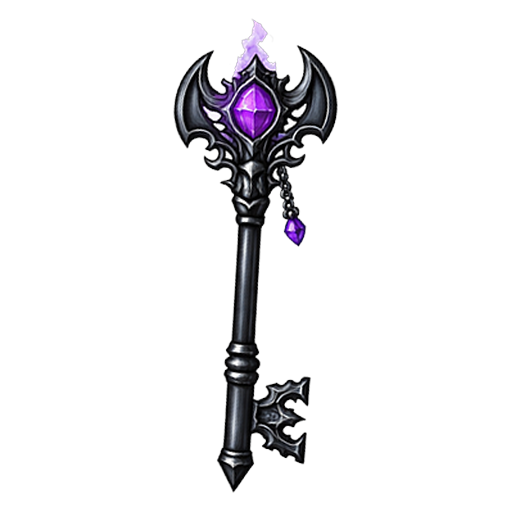
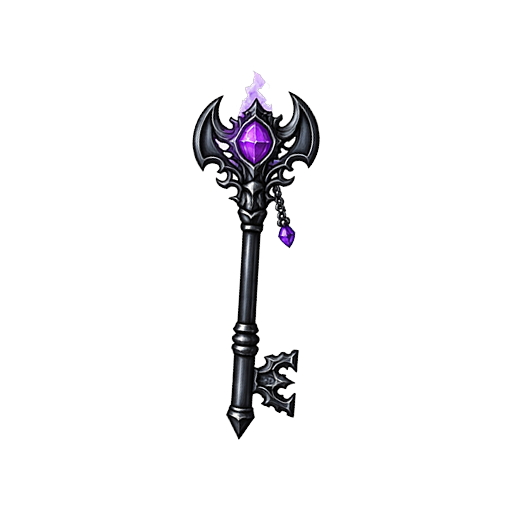
keys

Changed region(s): [[0.3125, 0.0312, 0.6875, 0.9688]]

diff --git a/src/data/wallDecalPresets.ts b/src/data/wallDecalPresets.ts
@@ -16,6 +16,8 @@ export type WallDecalPreset = {
     plateColor: string;
     faceInset?: number;
     contentDepth?: number;
+    /** Overrides the shared backing-plate thickness (WallDecal's PLATE_DEPTH) for this decal. */
+    plateDepth?: number;
     scatterXOptions?: number[];
     scatterYOptions?: number[];
 };
@@ -82,17 +84,19 @@ const DECAL_PRESETS: Record<string, WallDecalPreset> = {
         width: GRID_SIZE * 0.28,
         height: WALL_HEIGHT * 0.46,
         y: 0,
-        hasBacking: false,
+        hasBacking: true,
         hasGlow: false,
         plateColor: '#3a2b1d',
+        plateDepth: GRID_SIZE * 0.03,
     },
     [LEVER_DOWN_IMAGE]: {
         width: GRID_SIZE * 0.28,
         height: WALL_HEIGHT * 0.46,
         y: 0,
-        hasBacking: false,
+        hasBacking: true,
         hasGlow: false,
         plateColor: '#3a2b1d',
+        plateDepth: GRID_SIZE * 0.03,
     },
     [ALTAR_IMAGE]: {
         width: GRID_SIZE * 0.56,
@@ -106,9 +110,10 @@ const DECAL_PRESETS: Record<string, WallDecalPreset> = {
         width: GRID_SIZE * 0.18,
         height: WALL_HEIGHT * 0.5,
         y: 0,
-        hasBacking: false,
+        hasBacking: true,
         hasGlow: true,
         plateColor: '#3a2b1d',
+        plateDepth: GRID_SIZE * 0.045,
     },
     [FOUNTAIN_IMAGE]: {
         width: GRID_SIZE * 0.72,
@@ -122,41 +127,46 @@ const DECAL_PRESETS: Record<string, WallDecalPreset> = {
         width: GRID_SIZE * 0.15,
         height: WALL_HEIGHT * 0.15,
         y: 0,
-        hasBacking: false,
+        hasBacking: true,
         hasGlow: false,
         plateColor: '#3a2b1d',
+        plateDepth: GRID_SIZE * 0.03,
     },
     [WOOD_RING_IMAGE]: {
         width: GRID_SIZE * 0.15,
         height: WALL_HEIGHT * 0.15,
         y: 0,
-        hasBacking: false,
+        hasBacking: true,
         hasGlow: false,
         plateColor: '#3a2b1d',
+        plateDepth: GRID_SIZE * 0.03,
     },
     [IRON_RING_IMAGE]: {
         width: GRID_SIZE * 0.2,
         height: WALL_HEIGHT * 0.2,
         y: 0,
-        hasBacking: false,
+        hasBacking: true,
         hasGlow: false,
         plateColor: '#3a2b1d',
+        plateDepth: GRID_SIZE * 0.03,
     },
     [FULL_TORCH_HOLDER_IMAGE]: {
         width: GRID_SIZE * 0.24,
         height: WALL_HEIGHT * 0.92,
         y: 0,
-        hasBacking: false,
+        hasBacking: true,
         hasGlow: false,
         plateColor: '#3a2b1d',
+        plateDepth: GRID_SIZE * 0.045,
     },
     [EMPTY_TORCH_HOLDER_IMAGE]: {
         width: GRID_SIZE * 0.42,
         height: WALL_HEIGHT * 0.48,
         y: 0,
-        hasBacking: false,
+        hasBacking: true,
         hasGlow: false,
         plateColor: '#3a2b1d',
+        plateDepth: GRID_SIZE * 0.045,
     },
     [SLIME_OUTLET_IMAGE]: {
         width: GRID_SIZE * 0.34,
@@ -252,25 +262,28 @@ const DECAL_PRESETS: Record<string, WallDecalPreset> = {
         width: GRID_SIZE * 0.36,
         height: WALL_HEIGHT * 0.36,
         y: -WALL_HEIGHT * 0.01,
-        hasBacking: false,
+        hasBacking: true,
         hasGlow: false,
         plateColor: '#3a2b1d',
+        plateDepth: GRID_SIZE * 0.025,
     },
     [TINY_SWITCH_IMAGE]: {
         width: GRID_SIZE * 0.28,
         height: WALL_HEIGHT * 0.28,
         y: -WALL_HEIGHT * 0.01,
-        hasBacking: false,
+        hasBacking: true,
         hasGlow: false,
         plateColor: '#3a2b1d',
+        plateDepth: GRID_SIZE * 0.025,
     },
     [EYE_SWITCH_IMAGE]: {
         width: GRID_SIZE * 0.42,
         height: WALL_HEIGHT * 0.42,
         y: -WALL_HEIGHT * 0.01,
-        hasBacking: false,
+        hasBacking: true,
         hasGlow: false,
         plateColor: '#3a2b1d',
+        plateDepth: GRID_SIZE * 0.025,
     },
     [STAIRS_UP_IMAGE]: {
         width: GRID_SIZE * getOriginalStairsUpFrontWidthRatio(),
@@ -295,9 +308,10 @@ for (const image of LOCK_IMAGES) {
         width: GRID_SIZE * 0.2,
         height: WALL_HEIGHT * 0.2,
         y: -WALL_HEIGHT * 0.02,
-        hasBacking: false,
+        hasBacking: true,
         hasGlow: true,
         plateColor: '#3a2b1d',
+        plateDepth: GRID_SIZE * 0.025,
     };
 }
 
@@ -324,9 +338,10 @@ for (const image of BIG_SWITCH_IMAGES) {
         width: GRID_SIZE * 0.44,
         height: WALL_HEIGHT * 0.44,
         y: -WALL_HEIGHT * 0.01,
-        hasBacking: false,
+        hasBacking: true,
         hasGlow: false,
         plateColor: '#3a2b1d',
+        plateDepth: GRID_SIZE * 0.025,
     };
 }
 

diff --git a/src/components/UI/HUD.tsx b/src/components/UI/HUD.tsx
@@ -13,7 +13,7 @@ import type { Champion } from '../../data/champions';
 import type { ChampionEquipment } from '../../types/game';
 import { getEquippedItemImage } from '../../data/itemImages';
 import { getPreferredCombatItem, QUIVER_SLOT_KEYS } from '../../data/equipment';
-import { formatKeybinding, matchesKeybinding, normalizeBindingKey } from '../../engine/options';
+import { DEFAULT_KEYBINDINGS, formatKeybinding, matchesKeybinding, normalizeBindingKey } from '../../engine/options';
 import { importPersistedSave } from '../../engine/saveGame';
 import { findSpell, getOriginalPreparedRuneManaCost, getOriginalRuneSelectionManaCost } from '../../data/runes';
 import { itemsPath } from '../../data/assetPaths';
@@ -577,7 +577,7 @@ export const HUD = () => {
     const manual = translations.manual;
     const {
         party, level, position, direction,
-        selectedChampionIndex, selectChampion, openPartyMember, reorderParty,
+        selectedChampionIndex, selectChampion, openPartyMember, closePartyMember, activePartyMemberId, reorderParty,
         moveForward, moveBackward, strafeLeft, strafeRight, turnLeft, turnRight,
         championVitals, spendPreparedSpellMana, castSpell: storeCastSpell, lastCastResult,
         championXP, championTemporaryXP, championCombat, attackFront, championEquipment, gameOptions,
@@ -593,6 +593,8 @@ export const HUD = () => {
         selectedChampionIndex: state.selectedChampionIndex,
         selectChampion: state.selectChampion,
         openPartyMember: state.openPartyMember,
+        closePartyMember: state.closePartyMember,
+        activePartyMemberId: state.activePartyMemberId,
         reorderParty: state.reorderParty,
         moveForward: state.moveForward,
         moveBackward: state.moveBackward,
@@ -931,6 +933,22 @@ export const HUD = () => {
             if (paused || tutorialOverlayActive) return;
             if (optionsModalOpen || tutorialModalOpen) return;
             if (isTextEntryTarget(e.target)) return;
+
+            if (e.key >= '1' && e.key <= '4') {
+                const championIndex = Number(e.key) - 1;
+                const champion = party[championIndex];
+                if (champion) {
+                    e.preventDefault();
+                    if (activePartyMemberId === champion.id) {
+                        closePartyMember();
+                    } else {
+                        if (selectedChampionIndex !== championIndex) selectChampion(championIndex);
+                        openPartyMember(champion.id);
+                    }
+                }
+                return;
+            }
+
             const heldMovementKey = resolveHeldMovementKey(e.key);
             if (heldMovementKey) {
                 e.preventDefault();
@@ -960,13 +978,19 @@ export const HUD = () => {
             window.removeEventListener('blur', clearHeldMovementState);
         };
     }, [
+        activePartyMemberId,
         clearHeldMovementState,
+        closePartyMember,
         flash,
         gameOptions,
+        openPartyMember,
         optionsModalOpen,
+        party,
         paused,
         resolveHeldMovementKey,
         runHeldMovement,
+        selectChampion,
+        selectedChampionIndex,
         setHeldMovementPressed,
         tutorialOverlayActive,
         tutorialModalOpen,
@@ -1300,6 +1324,10 @@ export const HUD = () => {
                         setRebindingTarget((current) =>
                             current?.action === target.action && current.slot === target.slot ? null : target,
                         );
+                    }}
+                    onResetKeybindings={() => {
+                        setRebindingTarget(null);
+                        setGameOptions({ keybindings: DEFAULT_KEYBINDINGS });
                     }}
                 />
             </Suspense>

diff --git a/src/components/Dungeon/WallDecal.tsx b/src/components/Dungeon/WallDecal.tsx
@@ -222,12 +222,13 @@ export const WallDecal = ({
     const decalHeight = height ?? preset.height;
     const plateWidth = Math.max(decalWidth - PLATE_INSET_X, decalWidth * 0.86);
     const plateHeight = Math.max(decalHeight - PLATE_INSET_Y, decalHeight * 0.84);
+    const plateDepth = preset.plateDepth ?? PLATE_DEPTH;
     const contentDepth = preset.contentDepth ?? (
         image === LEVER_UP_IMAGE || image === LEVER_DOWN_IMAGE
-            ? PLATE_DEPTH * 0.34
+            ? plateDepth * 0.34
             : image === miscPath('wall_torch_holder_empty.png')
-                ? PLATE_DEPTH * 0.02
-                : PLATE_DEPTH * 0.16
+                ? plateDepth * 0.02
+                : plateDepth * 0.16
     );
     const scatterOffset = resolveWallDecalScatterOffset(image, tileX, tileY, face);
     const fallbackImage =
@@ -256,8 +257,8 @@ export const WallDecal = ({
                 )}
                 {preset.hasBacking && (
                     <>
-                        <mesh position={[0, 0, PLATE_DEPTH * 0.55]} frustumCulled={false} renderOrder={1} raycast={NO_RAYCAST}>
-                            <boxGeometry args={[plateWidth, plateHeight, PLATE_DEPTH]} />
+                        <mesh position={[0, 0, plateDepth * 0.55]} frustumCulled={false} renderOrder={1} raycast={NO_RAYCAST}>
+                            <boxGeometry args={[plateWidth, plateHeight, plateDepth]} />
                             <meshBasicMaterial
                                 color={preset.plateColor}
                                 transparent={wallTransparent}
@@ -268,7 +269,7 @@ export const WallDecal = ({
                     </>
                 )}
                 {preset.hasGlow && (
-                    <mesh position={[0, 0, PLATE_DEPTH * 0.04]} frustumCulled={false} renderOrder={2} raycast={NO_RAYCAST}>
+                    <mesh position={[0, 0, plateDepth * 0.04]} frustumCulled={false} renderOrder={2} raycast={NO_RAYCAST}>
                         <planeGeometry args={[decalWidth * 1.1, decalHeight * 1.1]} />
                         <meshBasicMaterial
                             color={accent}

diff --git a/src/components/UI/HudOptionsModal.tsx b/src/components/UI/HudOptionsModal.tsx
@@ -28,6 +28,7 @@ export const HudOptionsModal: React.FC<{
     onChangeLocale: (locale: Locale) => void;
     onToggleMinimap: () => void;
     onToggleBinding: (target: HudRebindingTarget) => void;
+    onResetKeybindings: () => void;
     onSaveGame: () => Promise<SaveTransferFeedback> | SaveTransferFeedback;
     onExportSave: () => Promise<SaveTransferFeedback> | SaveTransferFeedback;
     onImportSave: (file: File) => Promise<SaveTransferFeedback> | SaveTransferFeedback;
@@ -42,6 +43,7 @@ export const HudOptionsModal: React.FC<{
     onChangeLocale,
     onToggleMinimap,
     onToggleBinding,
+    onResetKeybindings,
     onSaveGame,
     onExportSave,
     onImportSave,
@@ -325,6 +327,24 @@ export const HudOptionsModal: React.FC<{
                                     >
                                         Esc
                                     </div>
+                                </div>
+                                <div style={{ paddingTop: 6 }}>
+                                    <button
+                                        type="button"
+                                        onClick={onResetKeybindings}
+                                        title={text.resetKeybindingsTitle}
+                                        style={{
+                                            padding: '10px 12px',
+                                            borderRadius: 6,
+                                            border: '1px solid rgba(212,184,112,0.3)',
+                                            background: 'rgba(0,0,0,0.62)',
+                                            color: '#d8c08b',
+                                            fontSize: 14,
+                                            cursor: 'pointer',
+                                        }}
+                                    >
+                                        {text.resetKeybindings}
+                                    </button>
                                 </div>
                             </div>
                         )}

diff --git a/src/i18n/fr.ts b/src/i18n/fr.ts
@@ -157,6 +157,8 @@ export const fr = {
         clickToReassign: 'Cliquez sur un raccourci pour le reassigner.',
         pressNewKey: 'Appuyez sur une nouvelle touche...',
         pressEscToCancel: 'Appuyez sur Echap pour annuler.',
+        resetKeybindings: 'Reinitialiser les raccourcis',
+        resetKeybindingsTitle: 'Restaurer les raccourcis par defaut',
         close: 'Fermer',
         actionLabels: {
             moveForward: 'Avancer',

diff --git a/src/engine/options.ts b/src/engine/options.ts
@@ -3,10 +3,10 @@
 export const DEFAULT_KEYBINDINGS: KeyBindings = {
     moveForward: ['ArrowUp', 'w'],
     moveBackward: ['ArrowDown', 's'],
-    turnLeft: ['ArrowLeft', 'a'],
-    turnRight: ['ArrowRight', 'd'],
-    strafeLeft: ['q'],
-    strafeRight: ['e'],
+    turnLeft: ['ArrowLeft', 'q'],
+    turnRight: ['ArrowRight', 'e'],
+    strafeLeft: ['a'],
+    strafeRight: ['d'],
 };
 
 export const DEFAULT_GAME_OPTIONS: GameOptions = {

diff --git a/src/i18n/en.ts b/src/i18n/en.ts
@@ -157,6 +157,8 @@ export const en = {
         clickToReassign: 'Click a binding to reassign it.',
         pressNewKey: 'Press a new key...',
         pressEscToCancel: 'Press Escape to cancel.',
+        resetKeybindings: 'Reset to defaults',
+        resetKeybindingsTitle: 'Restore the default keybindings',
         close: 'Close',
         actionLabels: {
             moveForward: 'Move forward',

diff --git a/scripts/rotate_upright_items.py b/scripts/rotate_upright_items.py
@@ -9,8 +9,11 @@ consistent with untouched items).
 
 Applied once on 2026-09-18 to the CANDIDATES list below (all items with
 PCA elongation ratio >= 15, hand-picked after visual review of a contact
-sheet). Re-run with --apply to redo, or edit CANDIDATES for new items
-that turn out to have the same diagonal "product shot" pose problem.
+sheet). Re-applied on 2026-09-18 from the pre-rotation originals after
+fixing a bug where the post-crop resize scaled content UP to fill the
+canvas, inflating padded items (e.g. keys) to ~2x their intended size.
+Re-run with --apply to redo, or edit CANDIDATES for new items that turn
+out to have the same diagonal "product shot" pose problem.
 Usage: python3 scripts/rotate_upright_items.py --apply [--out=<dir>]
 (omit --apply for a dry run; omit --out to overwrite in place).
 """
@@ -77,15 +80,20 @@ def process(name, out_dir=None, dry_run=True):
         return
     cropped = rotated.crop(bbox)
 
-    # Fit cropped content into a canvas of the ORIGINAL size, preserving aspect,
-    # centered, so on-screen scale stays consistent with untouched items.
+    # Paste at native pixel scale onto a canvas of the ORIGINAL size, centered.
+    # Rotation (expand=True) doesn't change physical content size, so only shrink
+    # if the rotated bbox no longer fits -- never scale up. Scaling up here used
+    # to inflate items that had a lot of transparent padding pre-rotation (e.g.
+    # keys) to ~2x their intended size relative to other items, which is why they
+    # rendered oversized/misaligned in-game (floating out of alcoves, etc).
     canvas = Image.new("RGBA", orig_size, (0, 0, 0, 0))
     cw, ch = cropped.size
-    scale = min(orig_size[0] / cw, orig_size[1] / ch)
-    new_size = (max(1, round(cw * scale)), max(1, round(ch * scale)))
-    resized = cropped.resize(new_size, Image.LANCZOS)
-    offset = ((orig_size[0] - new_size[0]) // 2, (orig_size[1] - new_size[1]) // 2)
-    canvas.paste(resized, offset, resized)
+    scale = min(1.0, orig_size[0] / cw, orig_size[1] / ch)
+    if scale < 1.0:
+        new_size = (max(1, round(cw * scale)), max(1, round(ch * scale)))
+        cropped = cropped.resize(new_size, Image.LANCZOS)
+    offset = ((orig_size[0] - cropped.size[0]) // 2, (orig_size[1] - cropped.size[1]) // 2)
+    canvas.paste(cropped, offset, cropped)
 
     target = f"{out_dir}/{name}.png" if out_dir else path
     if not dry_run:
